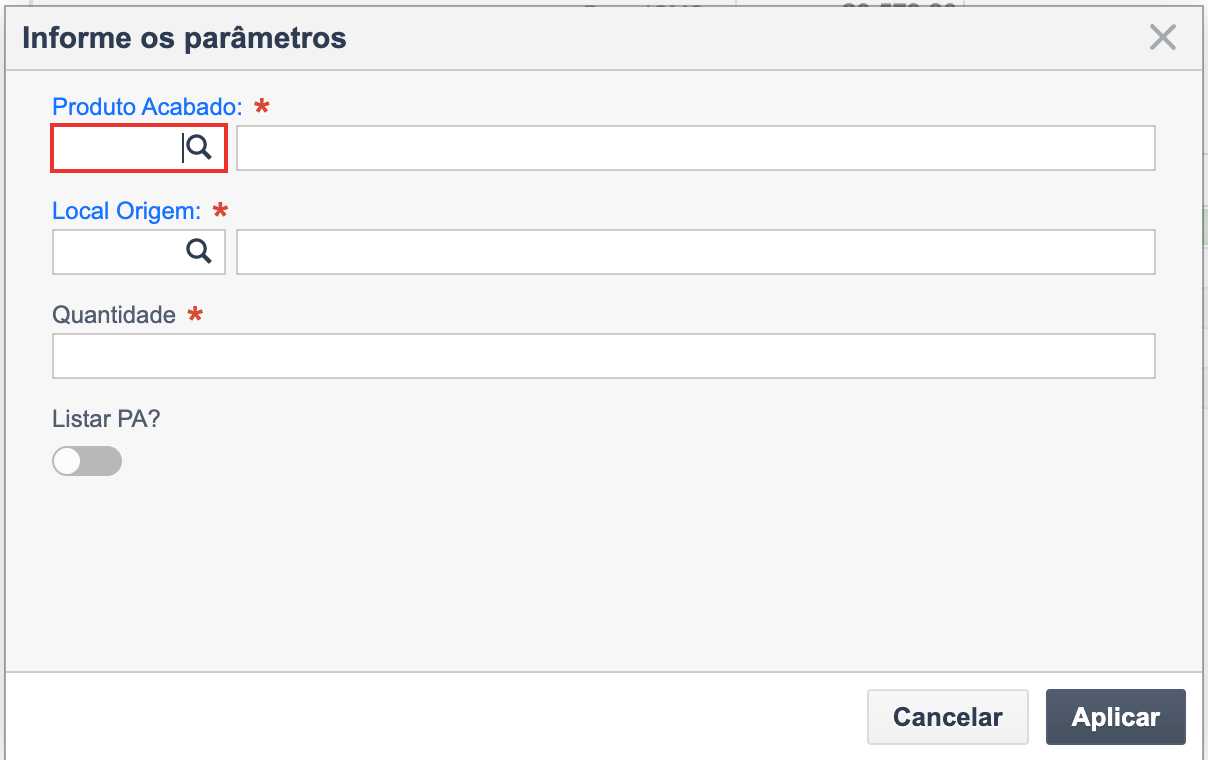
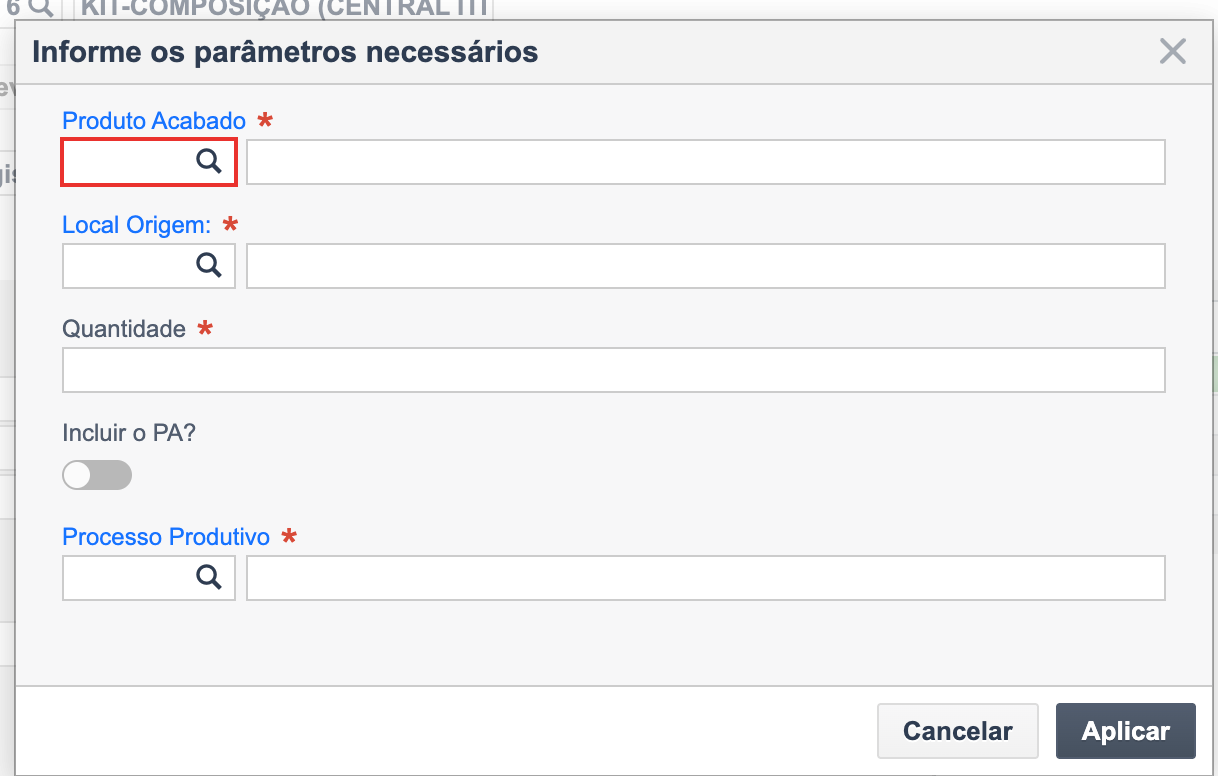
feat: seleção do Processo Produtivo (IDPROC) no formulário
PA pode ter 2+ composições; o processo escolhido resolve a ambiguidade.
Validações na ordem: processo ativo (TPRPRC.ATIVO), PA com MPs
vinculadas ao processo, e bloqueio de processos com mais de uma
atividade. Composição sempre na versão mais recente (VERSAO).

diff --git a/src/test/java/br/com/evolution/kitcomposicao/domain/ProcessoProdutivoTest.java b/src/test/java/br/com/evolution/kitcomposicao/domain/ProcessoProdutivoTest.java
@@ -1,0 +1,53 @@
+package br.com.evolution.kitcomposicao.domain;
+
+import org.junit.jupiter.api.Test;
+
+import java.math.BigDecimal;
+
+import static org.junit.jupiter.api.Assertions.assertDoesNotThrow;
+import static org.junit.jupiter.api.Assertions.assertThrows;
+import static org.junit.jupiter.api.Assertions.assertTrue;
+
+class ProcessoProdutivoTest {
+
+    private static final BigDecimal IDPROC = BigDecimal.valueOf(40);
+
+    @Test
+    void processoValidoPassa() {
+        ProcessoProdutivo processo = new ProcessoProdutivo(IDPROC, true, 1, 3);
+
+        assertDoesNotThrow(processo::validarParaBuscaDeComposicao);
+    }
+
+    @Test
+    void processoInativoBloqueia() {
+        ProcessoProdutivo processo = new ProcessoProdutivo(IDPROC, false, 1, 3);
+
+        Exception erro = assertThrows(Exception.class, processo::validarParaBuscaDeComposicao);
+        assertTrue(erro.getMessage().contains("não está ativo"));
+    }
+
+    @Test
+    void paSemVinculoAoProcessoBloqueia() {
+        ProcessoProdutivo processo = new ProcessoProdutivo(IDPROC, true, 1, 0);
+
+        Exception erro = assertThrows(Exception.class, processo::validarParaBuscaDeComposicao);
+        assertTrue(erro.getMessage().contains("não possui vínculo"));
+    }
+
+    @Test
+    void maisDeUmaAtividadeBloqueia() {
+        ProcessoProdutivo processo = new ProcessoProdutivo(IDPROC, true, 2, 3);
+
+        Exception erro = assertThrows(Exception.class, processo::validarParaBuscaDeComposicao);
+        assertTrue(erro.getMessage().contains("mais de uma atividade"));
+    }
+
+    @Test
+    void inativoTemPrecedenciaSobreDemaisRegras() {
+        ProcessoProdutivo processo = new ProcessoProdutivo(IDPROC, false, 2, 0);
+
+        Exception erro = assertThrows(Exception.class, processo::validarParaBuscaDeComposicao);
+        assertTrue(erro.getMessage().contains("não está ativo"));
+    }
+}

diff --git a/src/main/java/br/com/evolution/kitcomposicao/repository/ProcessoProdutivoRepository.java b/src/main/java/br/com/evolution/kitcomposicao/repository/ProcessoProdutivoRepository.java
@@ -1,0 +1,47 @@
+package br.com.evolution.kitcomposicao.repository;
+
+import br.com.evolution.kitcomposicao.domain.ProcessoProdutivo;
+import br.com.sankhya.extensions.actionbutton.QueryExecutor;
+
+import java.math.BigDecimal;
+
+/**
+ * Consulta o Processo Produtivo (TPRPRC) com os dados necessários para as
+ * validações da busca: ativo (TPRPRC.ATIVO, confirmado no dicionário),
+ * quantidade de atividades (TPRATV) e MPs do PA vinculadas ao processo
+ * (TPRLMP via TPRATV).
+ */
+public final class ProcessoProdutivoRepository {
+
+    private ProcessoProdutivoRepository() {}
+
+    public static ProcessoProdutivo buscar(QueryExecutor q,
+                                           BigDecimal idProc,
+                                           BigDecimal codProdPA) throws Exception {
+        try {
+            q.setParam("IDPROC", idProc);
+            q.setParam("CODPRODPA", codProdPA);
+            q.nativeSelect(
+                "SELECT PRC.ATIVO,"
+              + "       (SELECT COUNT(*) FROM TPRATV ATV"
+              + "         WHERE ATV.IDPROC = PRC.IDPROC) AS QTDATIVIDADES,"
+              + "       (SELECT COUNT(*) FROM TPRLMP MP"
+              + "         INNER JOIN TPRATV ATV2 ON ATV2.IDEFX = MP.IDEFX"
+              + "         WHERE ATV2.IDPROC = PRC.IDPROC"
+              + "           AND MP.CODPRODPA = {CODPRODPA}) AS QTDMPSDOPA"
+              + "  FROM TPRPRC PRC"
+              + " WHERE PRC.IDPROC = {IDPROC}");
+
+            if (!q.next()) {
+                throw new Exception("Processo produtivo " + idProc + " não encontrado (TPRPRC).");
+            }
+            return new ProcessoProdutivo(
+                idProc,
+                "S".equals(q.getString("ATIVO")),
+                q.getInt("QTDATIVIDADES"),
+                q.getInt("QTDMPSDOPA"));
+        } finally {
+            q.close();
+        }
+    }
+}

diff --git a/src/main/java/br/com/evolution/kitcomposicao/domain/ProcessoProdutivo.java b/src/main/java/br/com/evolution/kitcomposicao/domain/ProcessoProdutivo.java
@@ -1,0 +1,41 @@
+package br.com.evolution.kitcomposicao.domain;
+
+import java.math.BigDecimal;
+
+/**
+ * Situação do Processo Produtivo (TPRPRC) escolhido no formulário, frente ao
+ * PA informado. Regras de uso da busca por composição:
+ *
+ * 0. processo precisa estar ativo;
+ * 1. o PA precisa ter MPs vinculadas ao processo escolhido;
+ * 2. apenas processos com UMA atividade configurada são permitidos.
+ */
+public final class ProcessoProdutivo {
+
+    private final BigDecimal idProc;
+    private final boolean ativo;
+    private final int qtdAtividades;
+    private final int qtdMpsDoPA;
+
+    public ProcessoProdutivo(BigDecimal idProc, boolean ativo, int qtdAtividades, int qtdMpsDoPA) {
+        this.idProc = idProc;
+        this.ativo = ativo;
+        this.qtdAtividades = qtdAtividades;
+        this.qtdMpsDoPA = qtdMpsDoPA;
+    }
+
+    public void validarParaBuscaDeComposicao() throws Exception {
+        if (!ativo) {
+            throw new Exception("O processo produtivo " + idProc + " não está ativo.");
+        }
+        if (qtdMpsDoPA == 0) {
+            throw new Exception("O item (PA) não possui vínculo com o processo produtivo escolhido ("
+                + idProc + ").");
+        }
+        if (qtdAtividades > 1) {
+            throw new Exception("O processo produtivo " + idProc + " possui mais de uma atividade. "
+                + "Esta busca permite apenas processos com uma atividade configurada "
+                + "e que contenham MPs vinculadas.");
+        }
+    }
+}

diff --git a/src/main/java/br/com/evolution/kitcomposicao/service/PreencherItensService.java b/src/main/java/br/com/evolution/kitcomposicao/service/PreencherItensService.java
@@ -3,9 +3,11 @@ package br.com.evolution.kitcomposicao.service;
 import br.com.evolution.kitcomposicao.domain.ComposicaoPA;
 import br.com.evolution.kitcomposicao.domain.ItemComposicao;
 import br.com.evolution.kitcomposicao.domain.ItemPedido;
+import br.com.evolution.kitcomposicao.domain.ProcessoProdutivo;
 import br.com.evolution.kitcomposicao.domain.RegraEstoquePedido;
 import br.com.evolution.kitcomposicao.domain.ResultadoInclusao;
 import br.com.evolution.kitcomposicao.repository.ComposicaoProdutoRepository;
+import br.com.evolution.kitcomposicao.repository.ProcessoProdutivoRepository;
 import br.com.evolution.kitcomposicao.repository.ItemNotaNativoRepository;
 import br.com.evolution.kitcomposicao.repository.PedidoRepository;
 import br.com.evolution.kitcomposicao.repository.ProdutoRepository;
@@ -34,10 +36,15 @@ public class PreencherItensService {
                                       BigDecimal codProdPA,
                                       BigDecimal codLocalOrig,
                                       BigDecimal qtdDigitada,
-                                      boolean listarPA) throws Exception {
+                                      boolean listarPA,
+                                      BigDecimal idProc) throws Exception {
+
+        ProcessoProdutivo processo =
+            ProcessoProdutivoRepository.buscar(ctx.getQuery(), idProc, codProdPA);
+        processo.validarParaBuscaDeComposicao();
 
         List<ItemComposicao> materiasPrimas =
-            ComposicaoProdutoRepository.buscarMateriasPrimas(ctx.getQuery(), codProdPA);
+            ComposicaoProdutoRepository.buscarMateriasPrimas(ctx.getQuery(), codProdPA, idProc);
 
         if (materiasPrimas.isEmpty()) {
             throw new Exception(ERRO_PA_SEM_COMPOSICAO);

diff --git a/src/main/java/br/com/evolution/kitcomposicao/repository/ComposicaoProdutoRepository.java b/src/main/java/br/com/evolution/kitcomposicao/repository/ComposicaoProdutoRepository.java
@@ -20,10 +20,17 @@ public final class ComposicaoProdutoRepository {
 
     private ComposicaoProdutoRepository() {}
 
-    public static List<ItemComposicao> buscarMateriasPrimas(QueryExecutor q, BigDecimal codProdPA) throws Exception {
+    /**
+     * MPs do PA restritas ao processo escolhido no formulário (IDPROC).
+     * ROW_NUMBER por VERSAO garante a composição/versão mais recente.
+     */
+    public static List<ItemComposicao> buscarMateriasPrimas(QueryExecutor q,
+                                                            BigDecimal codProdPA,
+                                                            BigDecimal idProc) throws Exception {
         List<ItemComposicao> materiasPrimas = new ArrayList<ItemComposicao>();
         try {
             q.setParam("CODPRODPA", codProdPA);
+            q.setParam("IDPROC", idProc);
             q.nativeSelect(
                 "SELECT CODPRODMP, QTDMP" +
                 " FROM (" +
@@ -34,6 +41,7 @@ public final class ComposicaoProdutoRepository {
                 "   INNER JOIN TPRATV ATV ON ATV.IDEFX = MP.IDEFX" +
                 "   INNER JOIN TPRPRC PRC ON PRC.IDPROC = ATV.IDPROC" +
                 "   WHERE MP.CODPRODPA = {CODPRODPA}" +
+                "     AND PRC.IDPROC = {IDPROC}" +
                 " )" +
                 " WHERE RN = 1"
             );

diff --git a/src/main/java/br/com/evolution/kitcomposicao/actions/PreencherItensPorComposicaoPA.java b/src/main/java/br/com/evolution/kitcomposicao/actions/PreencherItensPorComposicaoPA.java
@@ -33,6 +33,7 @@ public class PreencherItensPorComposicaoPA implements AcaoRotinaJava {
             BigDecimal codLocalOrig = ParamUtil.getBigDecimalObrigatorio(ctx, "CODLOCALORIG", "Local Origem");
             BigDecimal qtdDigitada  = ParamUtil.getBigDecimalObrigatorio(ctx, "QTDNEG", "Quantidade");
             boolean listarPA        = ParamUtil.getBooleanOpcional(ctx, "LISTAPA");
+            BigDecimal idProc       = ParamUtil.getBigDecimalObrigatorio(ctx, "IDPROC", "Processo Produtivo");
 
             if (qtdDigitada.signum() <= 0) {
                 ctx.mostraErro("Atenção! A Quantidade deve ser maior que zero.");
@@ -40,10 +41,10 @@ public class PreencherItensPorComposicaoPA implements AcaoRotinaJava {
             }
 
             ResultadoInclusao resultado = new PreencherItensService()
-                .executar(ctx, nunota, codProdPA, codLocalOrig, qtdDigitada, listarPA);
+                .executar(ctx, nunota, codProdPA, codLocalOrig, qtdDigitada, listarPA, idProc);
 
             TLogCatcher.logInfo("NUNOTA=" + nunota + " PA=" + codProdPA
-                + " QTD=" + qtdDigitada + " LISTAPA=" + listarPA
+                + " QTD=" + qtdDigitada + " LISTAPA=" + listarPA + " IDPROC=" + idProc
                 + " -> " + resultado.getIncluidos() + " item(ns) inserido(s), "
                 + resultado.getPulados() + " pulado(s) por estoque.");
 

diff --git a/README.md b/README.md
@@ -66,12 +66,14 @@ src/main/java/br/com/evolution/kitcomposicao/
 ├── service/
 │   └── PreencherItensService.java           Caso de uso (composição → validação → inclusão)
 ├── repository/
-│   ├── ComposicaoProdutoRepository.java     MPs do PA (TPRLMP⋈TPRATV⋈TPRPRC, maior VERSAO)
+│   ├── ComposicaoProdutoRepository.java     MPs do PA no processo (TPRLMP⋈TPRATV⋈TPRPRC, maior VERSAO)
+│   ├── ProcessoProdutivoRepository.java     TPRPRC: ativo + qtd atividades + vínculo do PA
 │   ├── ItemNotaNativoRepository.java        CACHelper rota XML + bypass de efetivação
 │   ├── PedidoRepository.java                TGFCAB⋈TGFTOP (regra de estoque da TOP do pedido)
 │   └── ProdutoRepository.java               TGFPRO.USOPROD
 ├── domain/
 │   ├── ComposicaoPA.java                    Regra pura: gera itens com qtd multiplicada
+│   ├── ProcessoProdutivo.java               Validações do processo escolhido (ativo/vínculo/1 atividade)
 │   ├── ItemComposicao.java                  VO (CODPRODMP + QTDMISTURA)
 │   ├── ItemPedido.java                      VO (CODPROD + QTDNEG)
 │   ├── RegraEstoquePedido.java              Gate de validação (espelho do nativo)
@@ -108,6 +110,17 @@ Cadastro em **Dicionário de Dados → TGFITE (ItemNota) → Ações**, tipo **R
 | Local Origem | `CODLOCALORIG` | Pesquisa (Local) | Sim |
 | Quantidade | `QTDNEG` | Número decimal | Sim |
 | Listar PA? | `LISTAPA` | Verdadeiro/Falso | Não |
+| Processo Produtivo | `IDPROC` | Pesquisa (Processo) | Sim |
+
+**Validações do Processo Produtivo** (um PA pode ter 2+ composições — o processo escolhido
+resolve a ambiguidade), na ordem:
+
+0. `TPRPRC.ATIVO='S'` — senão: *"O processo produtivo X não está ativo."*
+1. PA com MPs vinculadas ao processo — senão: *"O item (PA) não possui vínculo com o
+   processo produtivo escolhido."*
+2. Processo com **uma única atividade** (TPRATV) — senão bloqueia: *"...Esta busca permite
+   apenas processos com uma atividade configurada e que contenham MPs vinculadas."*
+3. Composição sempre na **versão mais recente** (`ROW_NUMBER ... ORDER BY TPRPRC.VERSAO DESC`).
 
 > **"Depois de executar, recarregar": `o registro pai (quando existir)`** — obrigatório.
 > Recarrega a nota inteira (itens + totais). "Toda a grade" atualiza só a grade de itens
@@ -271,9 +284,12 @@ Evidências dos testes em `tst/` e monitores em `monitor/`.
 
 - **v0.1** — inserção via JAPE (`ctx.novaLinha`): preço zero, reserva errada (ORA-20101)
 - **v0.2** — preço via `CentralItemNota.inicializaProduto` (preço OK; demais campos ainda fora)
-- **v1.0 (atual)** — **inclusão 100% nativa** via `CACHelper` rota XML + validação de
+- **v1.0** — **inclusão 100% nativa** via `CACHelper` rota XML + validação de
   estoque item a item com pergunta por produto + refresh "registro pai". Homologada em
   base dev: preço, impostos, totais, reserva, confirmação de nota e os 4 cenários de estoque.
+- **v1.1 (atual)** — **seleção do Processo Produtivo (`IDPROC`)** no formulário: um PA pode
+  ter 2+ composições; validações de processo ativo, vínculo do PA e atividade única
+  (pendente teste em base dev).
 
 ---
 